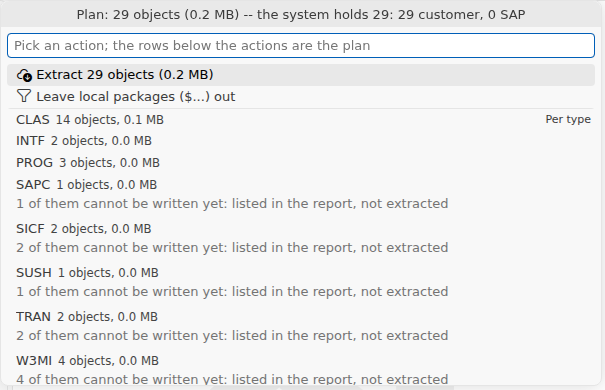
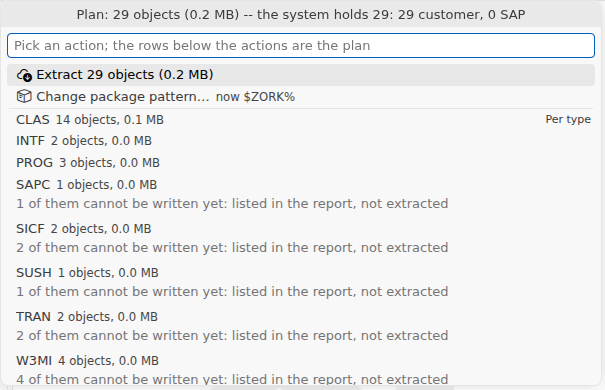
docs(rescue-zork): the narrowed plan offers only Change package pattern
Retaken screenshot 09 with #983's current command, and the reason beside it;
_ as a one-character wildcard.

Claude-Session: https://claude.ai/code/session_01FSTEHL6tT6QuRcwTrT1r7X

Changed region(s): [[0.0298, 0.2154, 0.5058, 0.2769]]

diff --git a/docs/rescue-zork.md b/docs/rescue-zork.md
@@ -225,7 +225,13 @@ author of `$ZORK` as ZORK_DEV).
 ![The pattern $ZORK%](img/rescue-zork/08-package-pattern.png)
 
 The plan is listed again, now for the 29 objects of `$ZORK` and its
-subpackages, the same numbers as on the command line:
+subpackages, the same numbers as on the command line. Beside a pattern the
+plan offers only **Change package pattern…**: an author filter there would
+add that author's objects from other packages, and "leave local packages
+out" would not remove a `$` package the pattern names.
+
+In a pattern, `%` (or `*`) is any text and `_` is any one character, so
+`$ZORK_00` would also match a package `$ZORKX00`.
 
 ![The plan for $ZORK%: 29 objects](img/rescue-zork/09-plan-narrowed.png)
 
